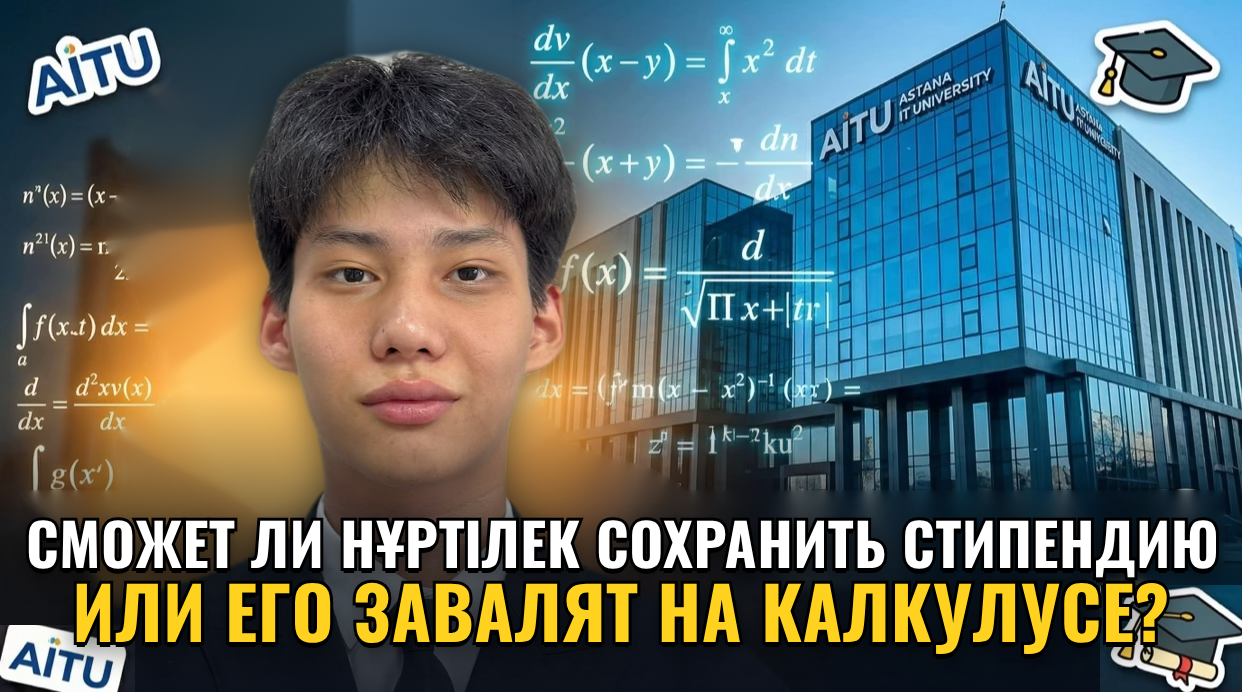
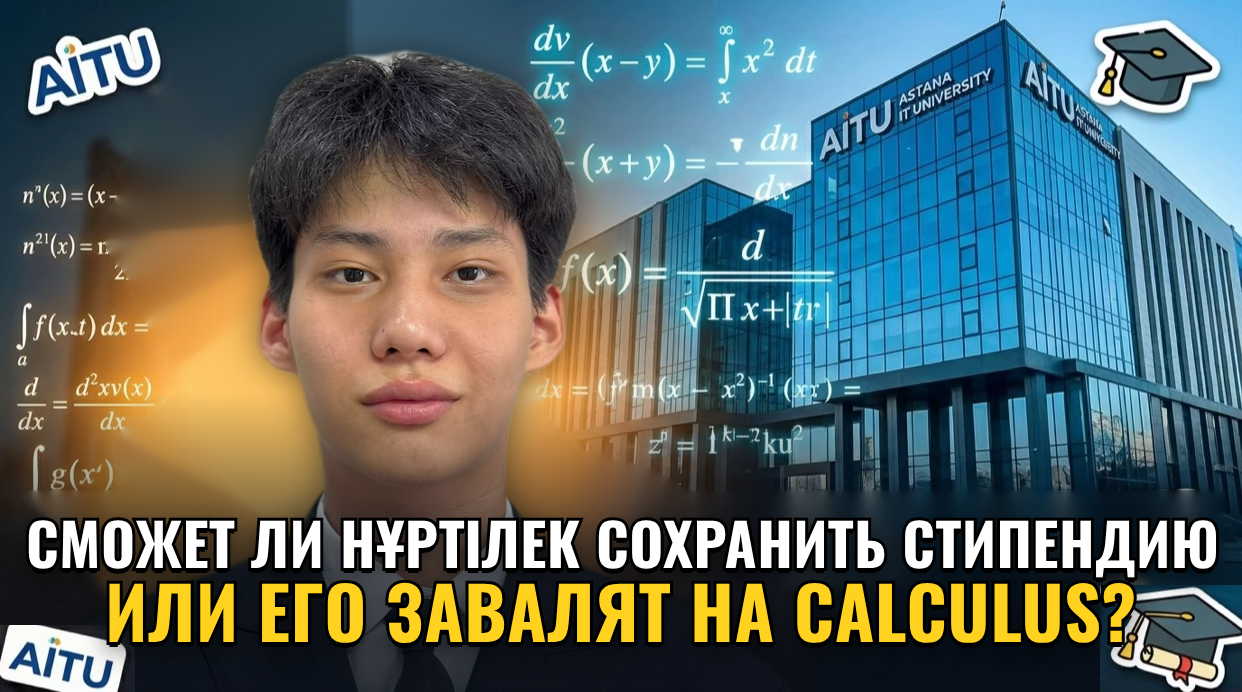
Use English 'Calculus' in Nurtilek thumbnail title
Claude-Session: https://claude.ai/code/session_01CHSjAuz7HXCsqsoMhcN7kw

Changed region(s): [[0.0306, 0.8194, 0.9485, 0.9711]]

diff --git a/templates/thumbnail-aitu/nurtilek.html b/templates/thumbnail-aitu/nurtilek.html
@@ -18,6 +18,6 @@ body{background:#111}
   <div class="shade"></div>
   <div class="corner" style="left:0;top:625px;width:135px;height:67px;background-position:0 -625px"></div>
   <div class="corner" style="left:1100px;top:585px;width:142px;height:107px;background-position:-1100px -585px"></div>
-  <h1 class="title"><div class="l1">Сможет ли Нұртілек сохранить стипендию</div><div class="l2">или его завалят на калкулусе?</div></h1>
+  <h1 class="title"><div class="l1">Сможет ли Нұртілек сохранить стипендию</div><div class="l2">или его завалят на Calculus?</div></h1>
 </div>
 <script>document.querySelectorAll(".title div").forEach(d=>{const w=1190;if(d.scrollWidth>w)d.style.fontSize=(72*w/d.scrollWidth)+"px"})</script></body></html>
